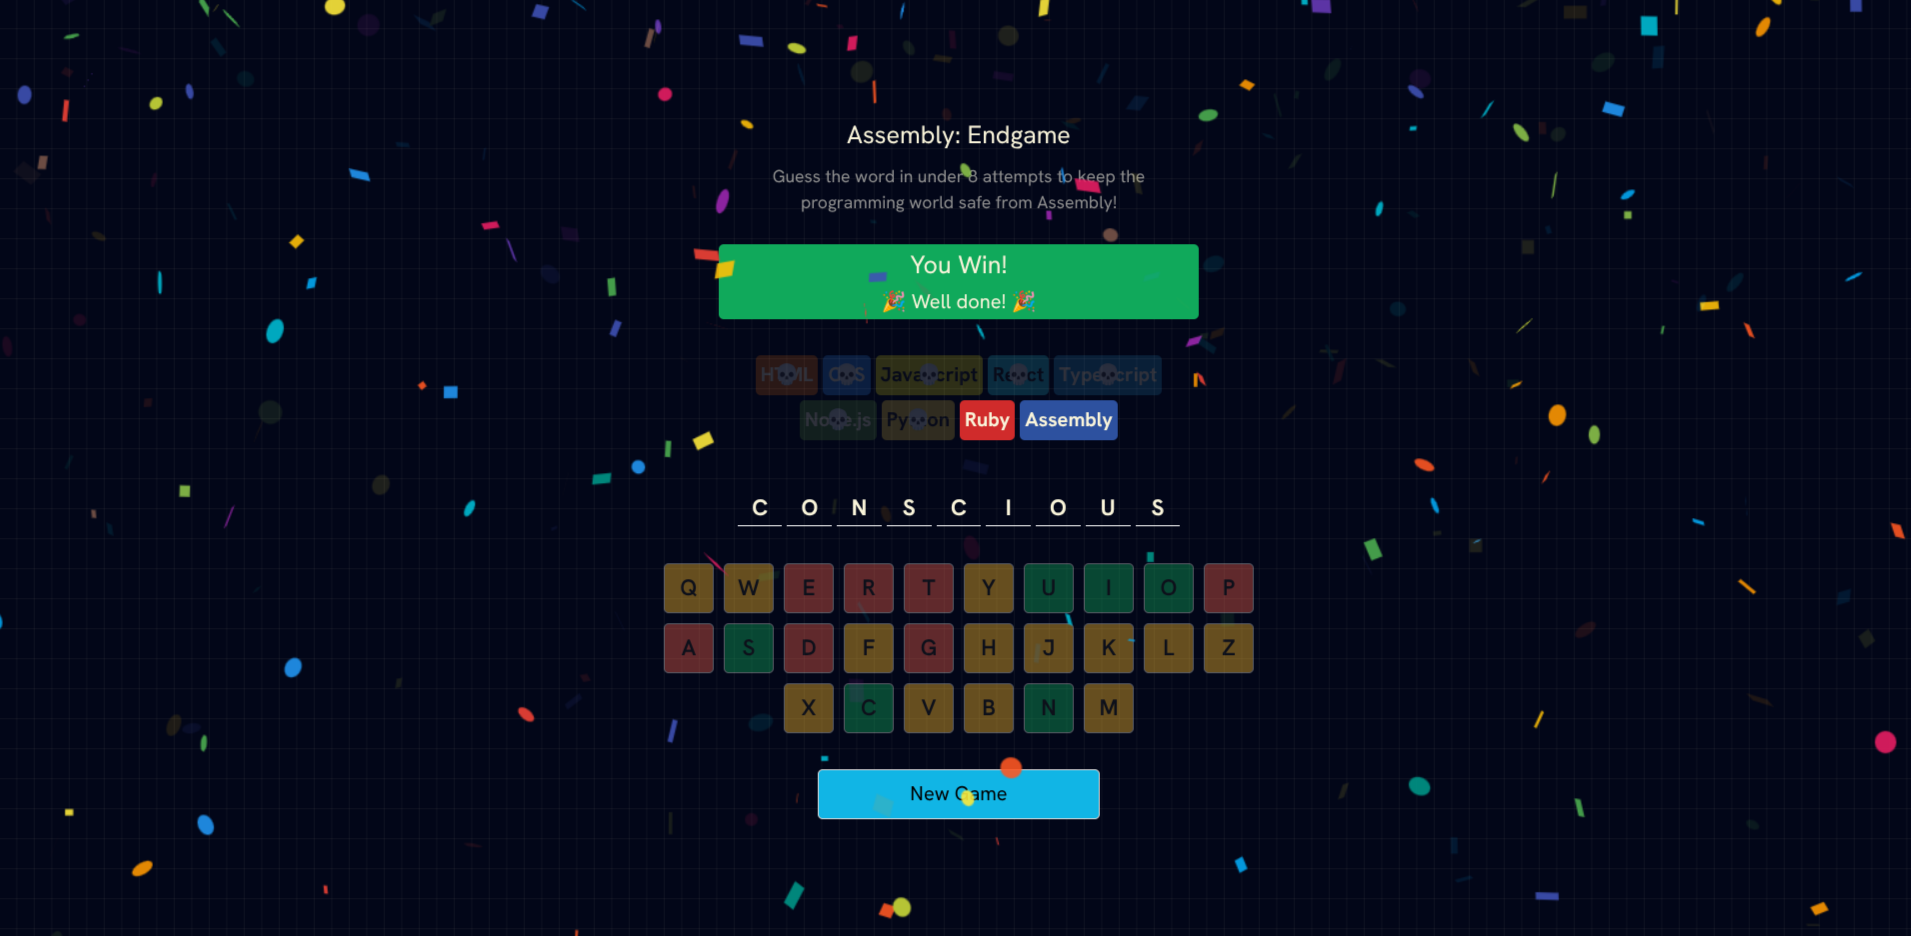
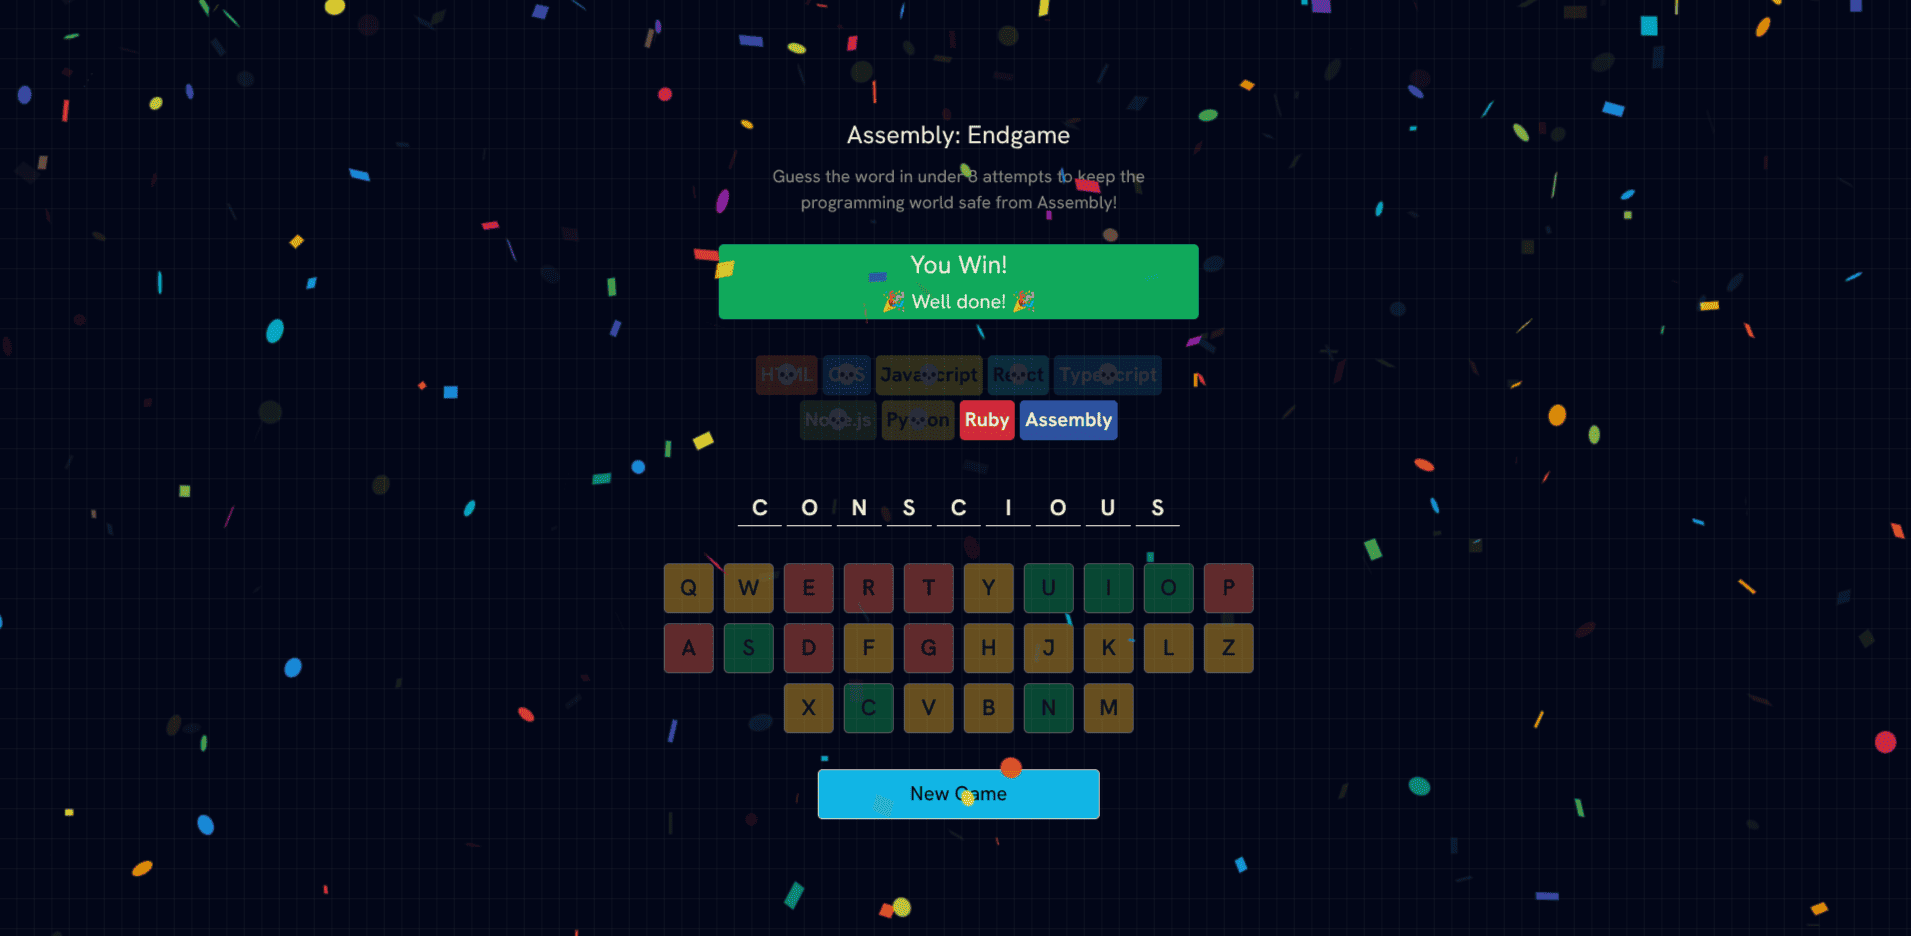
Compress and update images

diff --git a/src/content/blog/test-blog-2.md b/src/content/blog/test-blog-2.md
@@ -3,7 +3,7 @@ title: 'Test Blog 2'
 description: 'This is the description for the second test blog'
 pubDate: 'Dec 22 2025'
 tags: ['test', 'webdev' ]
-image: '../../assets/arcane2.jpg'
+image: '../../assets/arcane.jpg'
 ---
 
 # Some Test Markdown

diff --git a/src/content/blog/test-blog-3.md b/src/content/blog/test-blog-3.md
@@ -7,7 +7,7 @@ tags:
   - astro
   - workflow
   - frontend
-image: '../../assets/coffee-shop.jpg'
+image: '../../assets/arcane.jpg'
 ---
 
 ## Why Astro?
